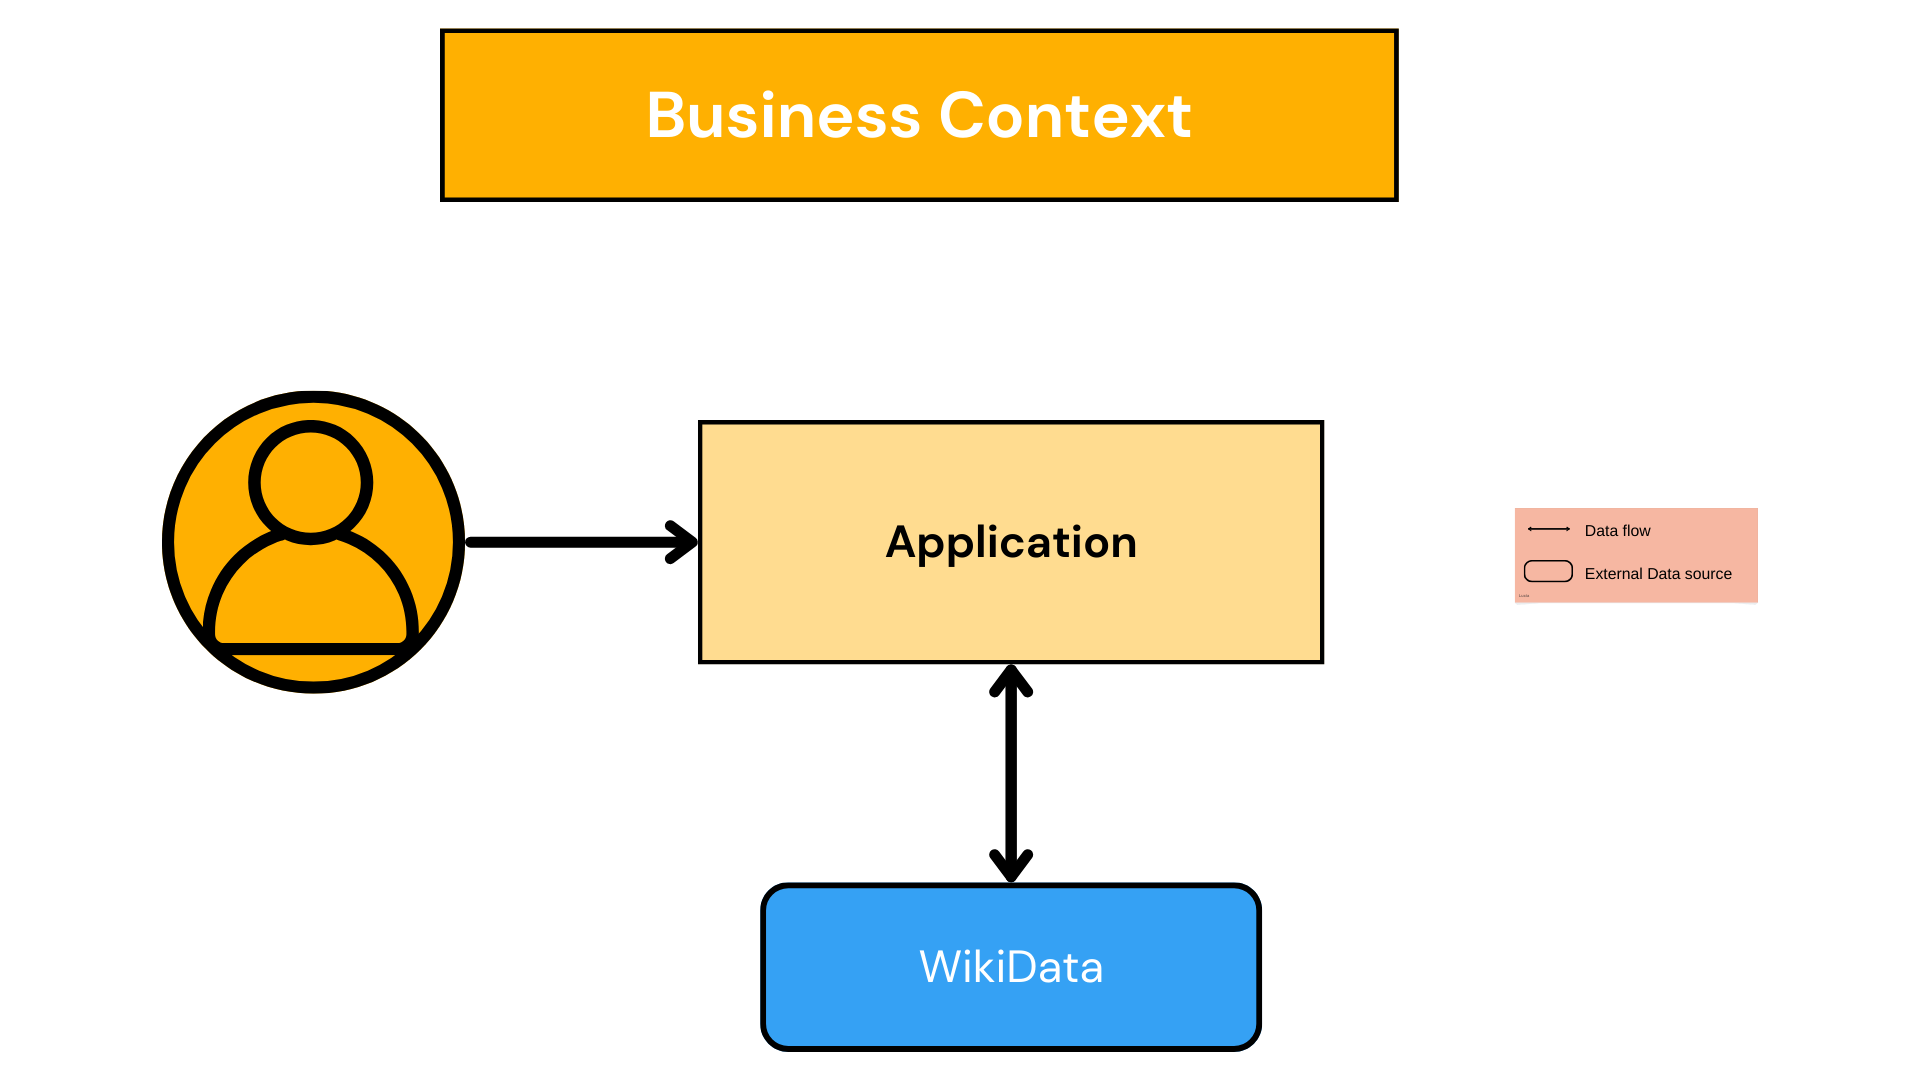
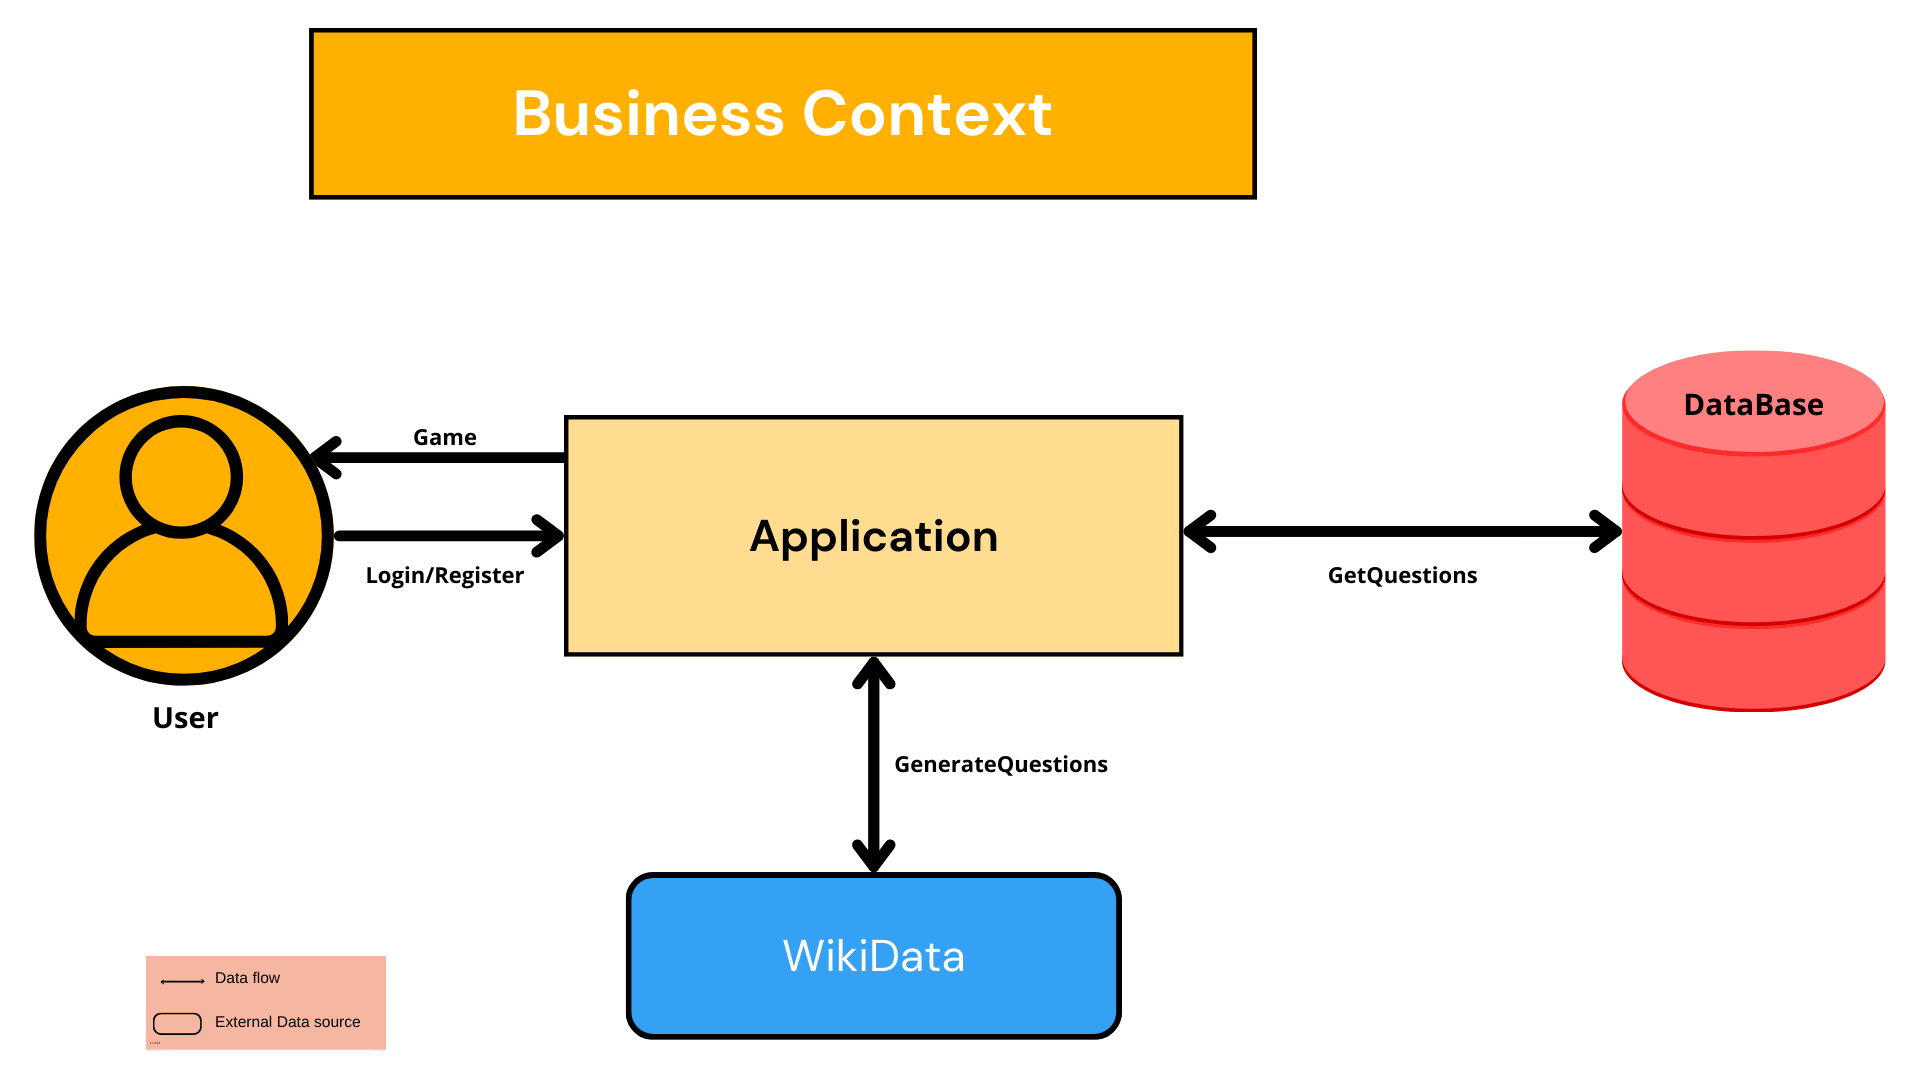
Añado cambios en la documentacion de los puntos 3 y 8

Changed region(s): [[0.0, 0.3056, 1.0, 0.9778], [0.1562, 0.0, 0.75, 0.2139], [0.0625, 0.8861, 0.2188, 0.9778]]

diff --git a/webapp/src/components/QuestionArea.jsx b/webapp/src/components/QuestionArea.jsx
@@ -6,7 +6,7 @@ import { EnunciadoBlock } from './EnunciadoBlock.jsx';
 
 export function QuestionArea(){
 
-  const apiEndpoint = process.env.REACT_APP_API_ENDPOINT || 'http://localhost:8000';
+  const apiEndpoint = process.env.REACT_APP_API_URI || 'http://localhost:8000';
     // Estado para almacenar los datos de la pregunta
   const [questionJson, setQuestionData] = useState(null);
     // Estado para almacenar las respuestas

diff --git a/README.md b/README.md
@@ -1,4 +1,5 @@
 # wiq_es05c
+Visit our app : http://20.68.253.187:3000/
 
 [![Deploy on release](https://github.com/Arquisoft/wiq_es05c/actions/workflows/release.yml/badge.svg)](https://github.com/Arquisoft/wiq_es05c/actions/workflows/release.yml)
 [![Quality Gate Status](https://sonarcloud.io/api/project_badges/measure?project=Arquisoft_wiq_es05c&metric=alert_status)](https://sonarcloud.io/summary/new_code?id=Arquisoft_wiq_es05c)
@@ -11,9 +12,10 @@ This repo is a basic application composed of several components.
 - **Gateway service**. Express service that is exposed to the public and serves as a proxy to the two previous ones.
 - **User service**. Express service that handles the insertion of new users in the system.
 - **Auth service**. Express service that handles the authentication of users.
+- **QuestionsService**. Express service that manages the search for questions and answers, their insertion into the database and their obtaining from the database.
 - **Webapp**. React web application that uses the gateway service to allow basic login and new user features.
 
-Both the user and auth service share a Mongo database that is accessed with mongoose.
+Both the user, auth service and questions service share a Mongo database that is accessed with mongoose.
 
 ## Members of the group
 
